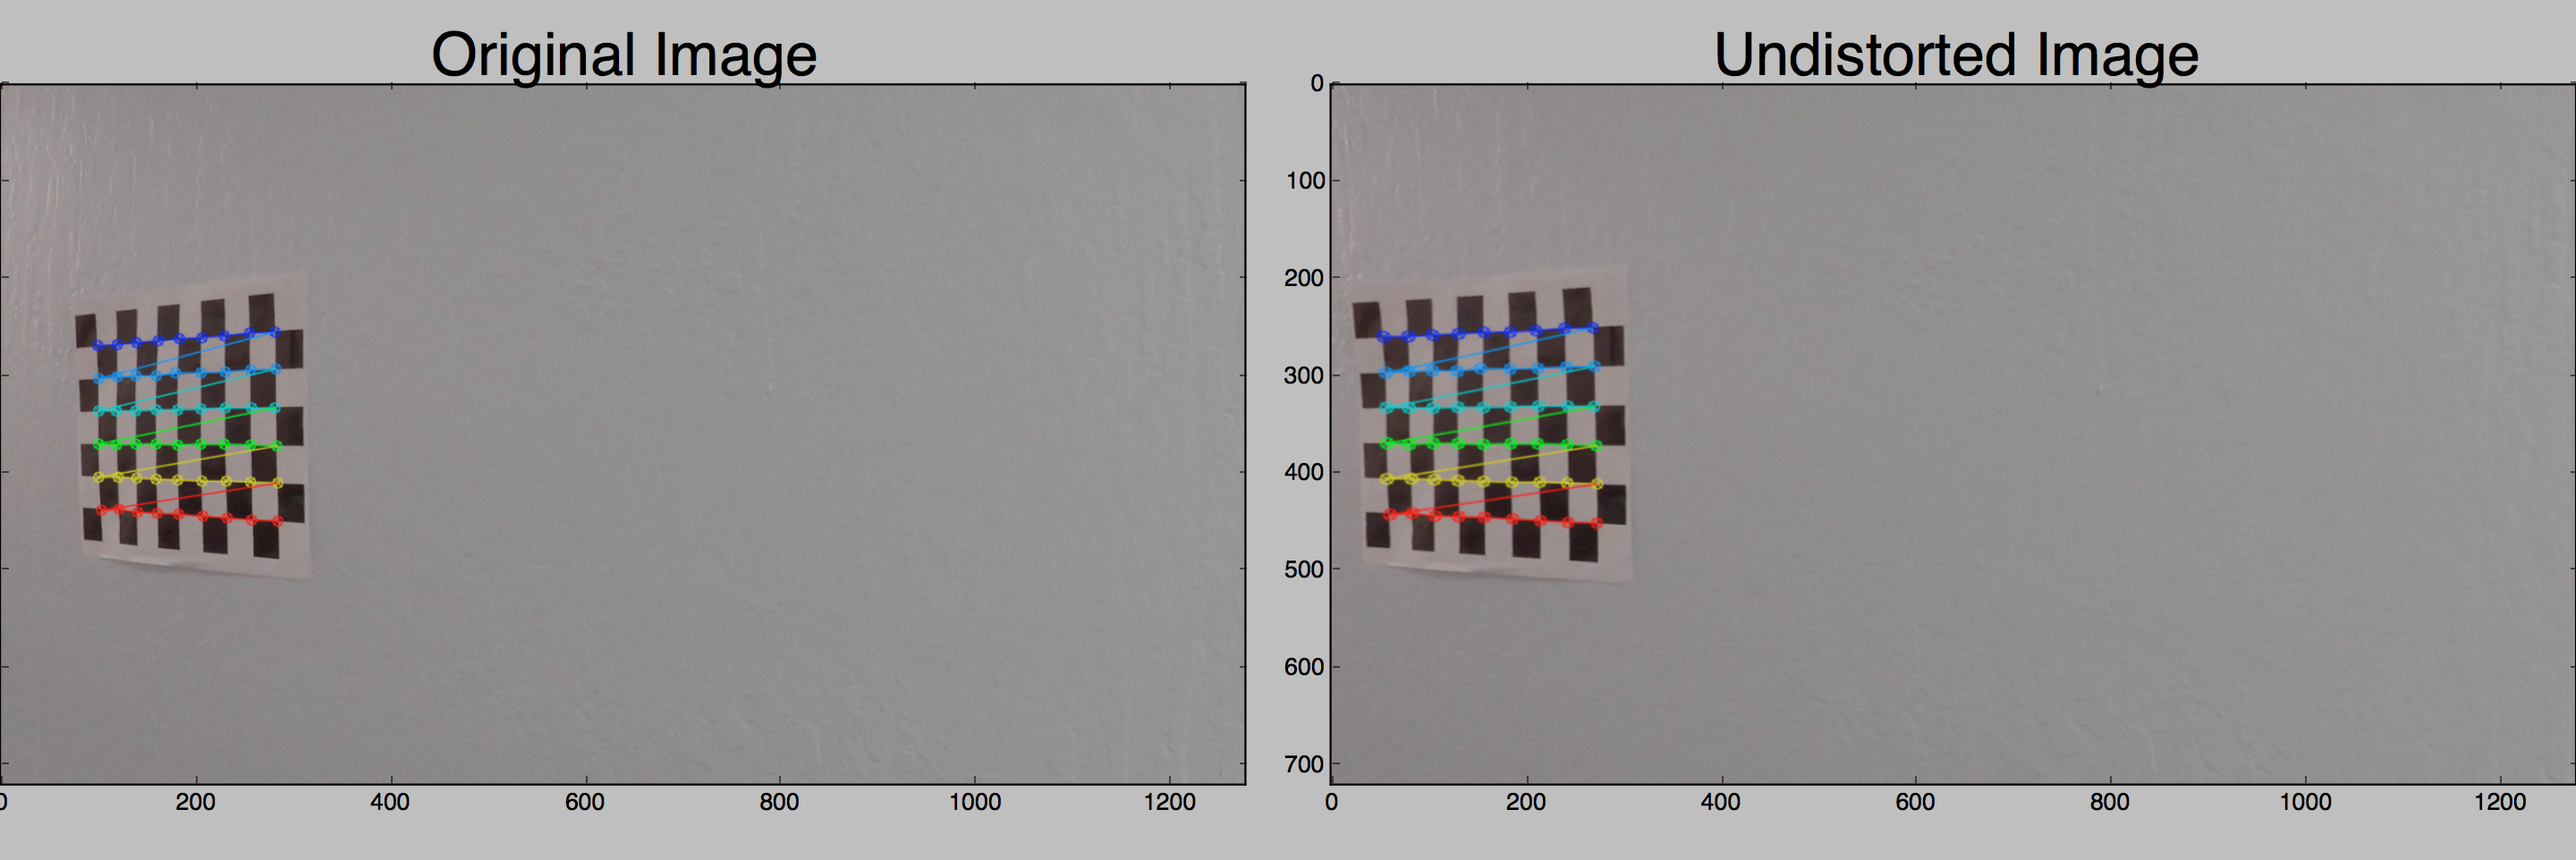
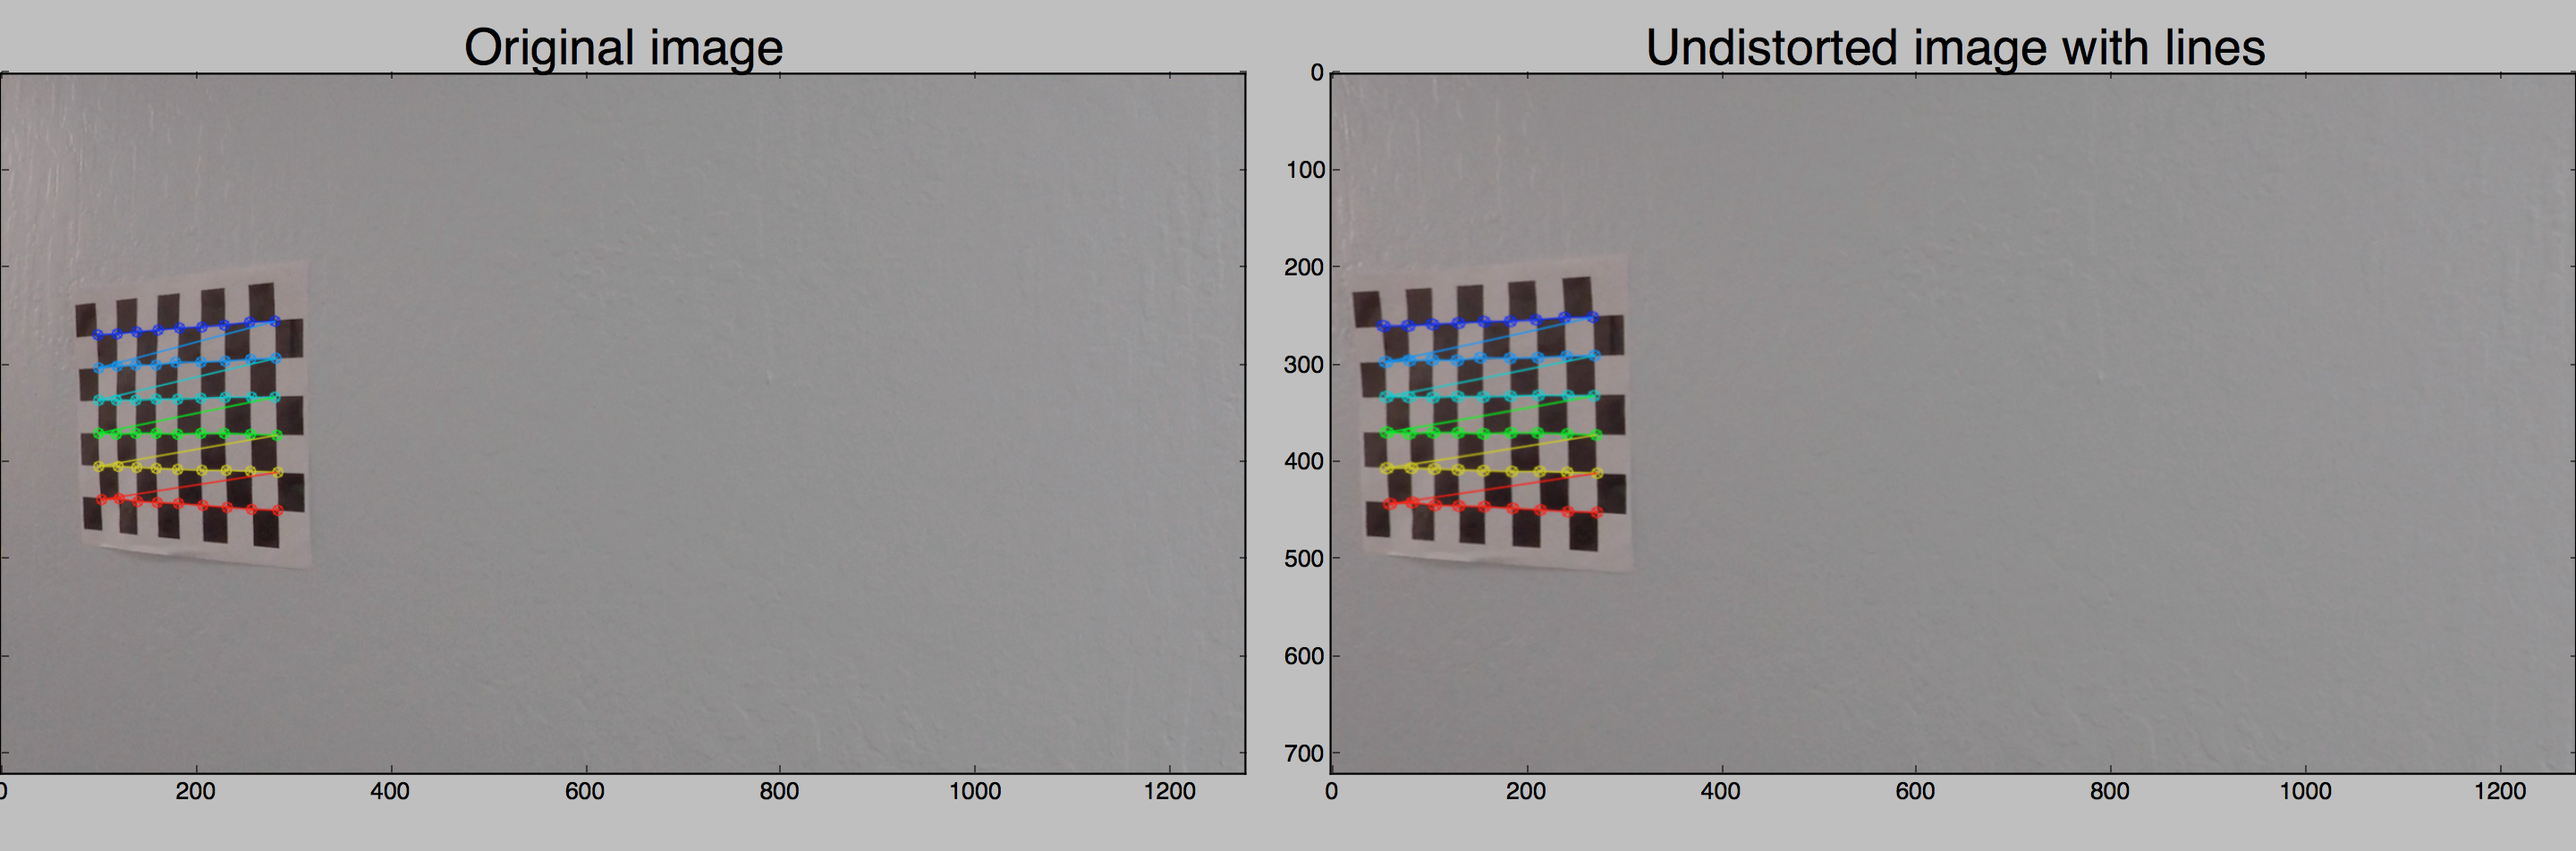
Compose different thresholds to detect lines

diff --git a/src/utils.py b/src/utils.py
@@ -12,10 +12,20 @@ import numpy as np
 # Define constants
 PATH_CAMERA_CAL = './camera_cal/'
 
-def get_tresholded_image(image):
-	return image
-	
+def get_composed_tresholded_image(image):
+	ksize = 3 # Choose a larger odd number to smooth gradient measurements
 
+	# Apply each of the thresholding functions
+	gradx = abs_sobel_thresh(image, orientation='x', sobel_kernel=ksize, thresh=(20, 100))
+	grady = abs_sobel_thresh(image, orientation='y', sobel_kernel=ksize, thresh=(20, 100))
+	mag_binary = mag_thresh(image, sobel_kernel=ksize, thresh=(40, 100))
+	dir_binary = dir_thresh(image, sobel_kernel=ksize, thresh=(0.7, 1.3))
+
+	combined = np.zeros_like(dir_binary)
+	combined[((gradx == 1) & (grady == 1)) | ((mag_binary == 1) & (dir_binary == 1))] = 1
+	
+	return combined
+	
 def abs_sobel_thresh(image, orientation, sobel_kernel=3, thresh=(0, 255)):
 	'''
 	Apply SobelX (by default), take the absolute value and apply a threshold to create a binary mask 
@@ -64,7 +74,7 @@ def mag_thresh(image, sobel_kernel=3, thresh=(0, 255)):
 	# Return the binary image
 	return binary_output
 
-def dir_threshold(image, sobel_kernel=3, thresh=(0, np.pi/2)):
+def dir_thresh(image, sobel_kernel=3, thresh=(0, np.pi/2)):
 	'''
 	Detect vertical lines. 
 	Compute the direction of the gradient (arctan2(np.absolute(sobely), np.absolute(sobelx))) and apply it to each pixel of the image.
@@ -75,8 +85,8 @@ def dir_threshold(image, sobel_kernel=3, thresh=(0, np.pi/2)):
 	gray_image = cv2.cvtColor(image, cv2.COLOR_BGR2GRAY)
 	
 	# Calculate the x and y gradients
-	sobelx = cv2.Sobel(gray, cv2.CV_64F, 1, 0, ksize=sobel_kernel)
-	sobely = cv2.Sobel(gray, cv2.CV_64F, 0, 1, ksize=sobel_kernel)
+	sobelx = cv2.Sobel(gray_image, cv2.CV_64F, 1, 0, ksize=sobel_kernel)
+	sobely = cv2.Sobel(gray_image, cv2.CV_64F, 0, 1, ksize=sobel_kernel)
 	
 	# Take the absolute value of the gradient direction, 
 	# apply a threshold, and create a binary image result
@@ -125,7 +135,7 @@ def undistort_image(img, objpoints, imgpoints, nx, ny):
 	'''
 	gray = cv2.cvtColor(img,cv2.COLOR_BGR2GRAY)
 	ret, corners = cv2.findChessboardCorners(gray, (nx, ny), None)
-	img = cv2.drawChessboardCorners(img, (nx, ny), corners, ret)
+	#img = cv2.drawChessboardCorners(img, (nx, ny), corners, ret)
 	ret, mtx, dist, rvecs, tvecs = cv2.calibrateCamera(objpoints, imgpoints, gray.shape[::-1], None, None)
 	dst = cv2.undistort(img, mtx, dist, None, mtx)
 	return dst
@@ -145,11 +155,11 @@ def plot_diff_images(original_image, undistorted_image, gray):
 	f, (ax1, ax2) = plt.subplots(1, 2, figsize=(20, 9))
 	f.tight_layout()
 	ax1.imshow(original_image)
-	ax1.set_title('Original Image', fontsize=25)
+	ax1.set_title('Original image', fontsize=25)
 	if(gray):
 		ax2.imshow(undistorted_image, cmap='gray')
 	else: 
 		ax2.imshow(undistorted_image)
-	ax2.set_title('Image with direction gradient (30, 100). \n Kernel size = 15', fontsize=25)
+	ax2.set_title('Undistorted image with lines', fontsize=25)
 	plt.subplots_adjust(left=0., right=1, top=0.9, bottom=0.)
 	plt.show()

diff --git a/tests/test.py b/tests/test.py
@@ -10,7 +10,7 @@ def test_undistort():
 	calibration_images = utils.load_images(PATH_CAMERA_CAL)
 	img_points, obj_points, nx, ny = utils.get_imgpoints_objpoints(calibration_images)
 	undistorted_image = utils.undistort_image(calibration_images[2], obj_points, img_points, nx, ny)
-	utils.plot_diff_images(calibration_images[2], undistorted_image)
+	utils.plot_diff_images(calibration_images[2], undistorted_image, False)
 
 def test_abs_sobel_thresh():
 	original_image = cv2.imread(PATH_TEST_IMAGES + 'test3.jpg')
@@ -26,11 +26,19 @@ def test_mag_thresh():
 
 def test_dir_threshold(): 
 	original_image = cv2.imread(PATH_TEST_IMAGES + 'test3.jpg')
-	thresholded_image = utils.mag_thresh(original_image, sobel_kernel=15, thresh=(0.7, 1.3))
+	thresholded_image = utils.dir_thresh(original_image, sobel_kernel=15, thresh=(0.7, 1.3))
 	original_image = cv2.cvtColor(original_image, cv2.COLOR_BGR2RGB)
 	utils.plot_diff_images(original_image, thresholded_image, True)
 
+def test_get_composed_tresholded_image():
+	original_image = cv2.imread(PATH_TEST_IMAGES + 'test3.jpg')
+	thresholded_image = utils.get_composed_tresholded_image(original_image)
+	original_image = cv2.cvtColor(original_image, cv2.COLOR_BGR2RGB)
+	utils.plot_diff_images(original_image, thresholded_image, True)
+
+
 # test_undistort()
-# test_abs_sobel_thresh()
+test_abs_sobel_thresh()
 # test_mag_thresh()
-test_dir_threshold()
+# test_dir_threshold()
+# test_get_composed_tresholded_image()
